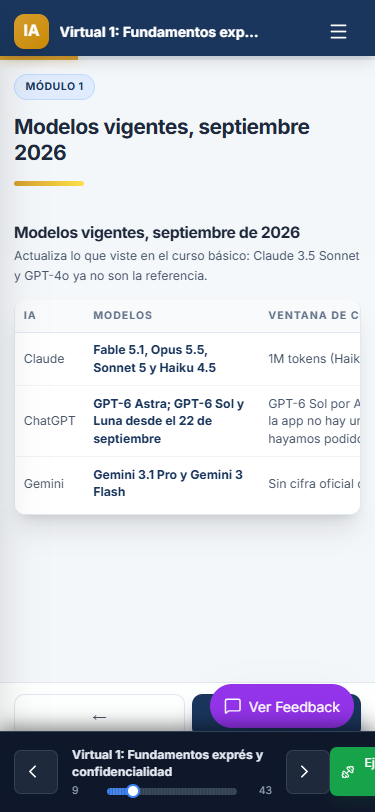
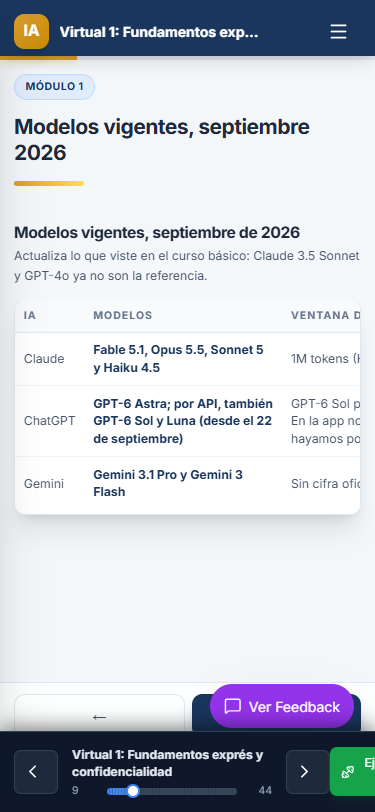
fix(avanzado): datos de la Virtual 1 ajustados a la investigación (fase 5)

diff --git a/client/src/data/avanzado/VIRTUAL_1.js b/client/src/data/avanzado/VIRTUAL_1.js
@@ -129,7 +129,7 @@ export const VIRTUAL_1 = {
                 headers: ["IA", "Modelos", "Ventana de contexto"],
                 rows: [
                     ["Claude", "Fable 5.1, Opus 5.5, Sonnet 5 y Haiku 4.5", "1M tokens (Haiku 4.5: 200K)"],
-                    ["ChatGPT", "GPT-6 Astra; GPT-6 Sol y Luna desde el 22 de septiembre", "GPT-6 Sol por API: 1 050 000 tokens. En la app no hay una cifra oficial que hayamos podido confirmar"],
+                    ["ChatGPT", "GPT-6 Astra; por API, también GPT-6 Sol y Luna (desde el 22 de septiembre)", "GPT-6 Sol por API: 1 050 000 tokens. En la app no hay una cifra oficial que hayamos podido confirmar"],
                     ["Gemini", "Gemini 3.1 Pro y Gemini 3 Flash", "Sin cifra oficial confirmada"]
                 ]
             }
@@ -184,8 +184,8 @@ export const VIRTUAL_1 = {
                 paragraph: "La base pública de Damien Charlotin registraba 2077 casos en el mundo al 24 de septiembre de 2026. En Ecuador no encontramos ningún caso confirmado todavía.",
                 headers: ["Dónde", "Qué pasó", "Consecuencia"],
                 rows: [
-                    ["Colombia · Corte Suprema, auto AC739-2026 (13 feb 2026)", "Un abogado citó diez sentencias inexistentes generadas con IA en un recurso de revisión", "Multa de 15 salarios mínimos"],
-                    ["Colombia · Corte Suprema, STC17832-2025 (5 nov 2025)", "Un tribunal de Sincelejo citó apartes de sentencias que no existían", "Se anuló el fallo"],
+                    ["Colombia · Corte Suprema, auto AC739-2026 (13 feb 2026)", "Un abogado incluyó diez citas jurisprudenciales inexistentes, generadas con IA, en un recurso de revisión", "Multa de 15 salarios mínimos"],
+                    ["Colombia · Corte Suprema, STC17832-2025 (5 nov 2025)", "El Tribunal Superior de Sincelejo citó apartes inexistentes de las sentencias STC13560-2023 y STC4734-2025", "Se anuló el fallo"],
                     ["Chile · Corte Suprema (22 abr 2026)", "Una abogada citó doctrina inexistente en un recurso de casación", "Un mes de suspensión y multa de 5 UTM"],
                     ["Argentina · Cámara Civil y Comercial de Rosario (21 ago 2025)", "Un escrito citó fallos inexistentes generados con ChatGPT", "Reprensión y oficio al Colegio de Abogados"]
                 ]
@@ -197,7 +197,7 @@ export const VIRTUAL_1 = {
             type: "narrative",
             contentData: {
                 Heading1: "Tutorial: cómo evitar que la IA alucine",
-                paragraph1: "Este tutorial adapta a Ecuador el método de Holly Cope, abogada inglesa, en su video «Reducing AI Hallucinations in Legal Work» (junio de 2026). El caso, las fuentes y los prompts son nuestros; el método y el recorrido son de ella.",
+                paragraph1: "Este tutorial adapta a Ecuador el método de Holly Cope, exabogada inglesa, en su video «Reducing AI Hallucinations in Legal Work» (junio de 2026). El caso, las fuentes y los prompts son nuestros; el método y el recorrido son de ella.",
                 bullets1: [
                     "Video completo: <a href='https://www.youtube.com/watch?v=Q-nA44oxXp0' target='_blank' rel='noopener noreferrer' class='underline'>youtube.com/watch?v=Q-nA44oxXp0</a>"
                 ],
@@ -212,12 +212,12 @@ export const VIRTUAL_1 = {
             type: "comparison",
             contentData: {
                 heading: "Los modelos de hoy también inventan",
-                paragraph: "Benchmark AA-Omniscience de Artificial Analysis, consultado el 24 de septiembre de 2026: preguntas de conocimiento que el modelo responde de memoria, sin documentos. Saber más no significa inventar menos. Y mide la memoria del modelo, no su trabajo con la norma que tú le entregas: por eso se la entregas.",
+                paragraph: "Benchmark AA-Omniscience de Artificial Analysis, consultado el 24 de septiembre de 2026: preguntas de conocimiento factual: mide lo que el modelo recuerda. Saber más no significa inventar menos. Y mide la memoria del modelo, no su trabajo con la norma que tú le entregas: por eso se la entregas.",
                 headers: ["", "Claude Fable 5.1 (max)", "Claude Opus 5.5 (max)", "GPT-6 Astra (high)"],
                 rows: [
                     ["Aciertos", "67 %", "66 %", "61 %"],
                     ["De lo que no sabe, cuánto inventa", "73 %", "59 %", "45 %"],
-                    ["De cada 100 preguntas", "67 bien, 24 inventadas, 9 «no sé»", "66 bien, 20 inventadas, 14 «no sé»", "61 bien, 17 inventadas, 22 «no sé»"]
+                    ["De cada 100 preguntas", "67 bien, 24 inventadas, 9 «no sé» o incompletas", "66 bien, 20 inventadas, 14 «no sé» o incompletas", "61 bien, 17 inventadas, 22 «no sé» o incompletas"]
                 ]
             }
         },
@@ -412,10 +412,10 @@ Si para algún punto el documento no alcanza, responde exactamente: "la informac
             type: "comparison",
             contentData: {
                 heading: "Niveles de protección: qué pasa con tus datos",
-                paragraph: "Según la documentación oficial de Anthropic y OpenAI, septiembre de 2026.",
+                paragraph: "Según la documentación oficial de Anthropic y la página de precios de OpenAI, septiembre de 2026.",
                 headers: ["Nivel", "¿Entrena con tus datos?", "Cuánto se guardan", "¿Realista para un despacho pequeño?"],
                 rows: [
-                    ["1. Plan personal: Claude Free, Pro o Max; ChatGPT Free, Plus o Pro", "Claude: tú decides con un interruptor. ChatGPT: «Mejorar el modelo para todos» viene activado en la mayoría de cuentas; se desactiva en Controles de datos", "Claude con entrenamiento desactivado: lo que borras se elimina en 30 días. Activado: hasta 5 años, desidentificado", "Sí, para el color verde. Claude Pro y ChatGPT Plus cuestan 20 dólares al mes"],
+                    ["1. Plan personal: Claude Free, Pro o Max; ChatGPT Free, Plus o Pro", "Claude: tú decides con un interruptor. ChatGPT: entrena con tus chats salvo que lo desactives (opt-out), según chatgpt.com/pricing", "Claude con entrenamiento desactivado: lo que borras se elimina en 30 días. Activado: hasta 5 años, desidentificado", "Sí, para el color verde. Claude Pro y ChatGPT Plus cuestan 20 dólares al mes"],
                     ["2. Plan de equipo o empresa: Claude Team o Enterprise", "No", "Lo que borras sale del sistema en 30 días; Enterprise permite configurar la retención", "Team, sí. Enterprise: precio a consultar con ventas"],
                     ["3. API de Claude con Zero Data Retention", "No", "Nada después de responder, salvo lo que marquen los filtros de seguridad (hasta 2 años). Fable y Mythos exigen 30 días", "Solo con desarrollo propio; se pide al equipo de ventas de Anthropic"],
                     ["4. Claude en Amazon Bedrock o Google Vertex AI", "Según tu contrato con AWS o Google, que son los encargados", "Según la política de esa nube", "Poco: Bedrock no tiene región garantizada en Sudamérica y es complejo"]

diff --git a/client/public/materiales/tutorial-evitar-alucinaciones.md b/client/public/materiales/tutorial-evitar-alucinaciones.md
@@ -2,7 +2,7 @@
 
 IA Avanzada para Abogados · Virtual 1.
 
-Este tutorial adapta a Ecuador el método de **Holly Cope**, abogada inglesa, en su video «Reducing AI Hallucinations in Legal Work» (24 de junio de 2026): https://www.youtube.com/watch?v=Q-nA44oxXp0. El caso, los prompts y las fuentes son ecuatorianos y están escritos por nosotros; el método y el recorrido de prompt malo, mejor y aún mejor son de ella. Te recomendamos ver el video completo.
+Este tutorial adapta a Ecuador el método de **Holly Cope**, exabogada inglesa, en su video «Reducing AI Hallucinations in Legal Work» (24 de junio de 2026): https://www.youtube.com/watch?v=Q-nA44oxXp0. El caso, los prompts y las fuentes son ecuatorianos y están escritos por nosotros; el método y el recorrido de prompt malo, mejor y aún mejor son de ella. Te recomendamos ver el video completo.
 
 ## 1. Por qué la IA adivina
 
@@ -10,7 +10,7 @@ Un estudio de OpenAI, «Why Language Models Hallucinate» (Kalai, Nachum, Vempal
 
 La idea central de Holly Cope: no le pidas a la IA que acierte; pídele que sea transparente sobre lo que no sabe.
 
-Los modelos actuales también lo hacen. En el benchmark AA-Omniscience de Artificial Analysis (https://artificialanalysis.ai/evaluations/omniscience, consultado el 24 de septiembre de 2026), el modelo responde de memoria, sin documentos, y cada respuesta es correcta, inventada o «no sé»:
+Los modelos actuales también lo hacen. En el benchmark AA-Omniscience de Artificial Analysis (https://artificialanalysis.ai/evaluations/omniscience, consultado el 24 de septiembre de 2026), se mide lo que el modelo recuerda (conocimiento factual), y cada respuesta es correcta, inventada, o «no sé» o incompleta:
 
 | | Aciertos | De lo que no sabe, cuánto inventa |
 |---|---|---|

diff --git a/docs/revision/2026-09-24-virtual-1-progreso.md b/docs/revision/2026-09-24-virtual-1-progreso.md
@@ -7,3 +7,4 @@
 - Fase 3 (ejecutar), commit `d8c7657`: selector `VITE_COURSE` (`client/src/data/cursos.js`, `App.jsx:3`), `client/src/data/avanzado/` con 43 slides y 5 materiales en `client/public/materiales/`. Ejecutor `sonnet`, sin desvíos del plan. Build pasa con y sin la variable; eslint 52. Sigue: fase 4, recorrido y capturas.
 - Fase 4 (verificar): build y eslint (52) sin cambios. Recorrido de los 43 slides con Playwright headless sobre el build `VITE_COURSE=avanzado`, en 1280×800 y 375×812, con Supabase bloqueado para no escribir `session_state` en modo admin: sin errores de página ni desborde horizontal. En móvil las tablas `comparison` se desplazan hacia el lado (la última columna no se ve sin deslizar). Básico sin la variable: Módulo 1, portada y `perfil-joseluis.png` cargan. Capturas en `docs/revision/capturas/`. Sigue: slide nuevo con AA-Omniscience (pedido de José Luis a mitad de sesión) y fase 5, revisión.
 - Agregado a pedido de José Luis (archivo `D:\curso-ia-avanzado\alucinaciones_benchmarks_IA.md`): slide `v1-3-5b` con AA-Omniscience y un párrafo en `tutorial-evitar-alucinaciones.md`. Cifras verificadas en el sitio (Parte E de la investigación). Su caso Opus 5.5 (high) no existe en el sitio; se usaron Fable 5.1 (max), Opus 5.5 (max) y GPT-6 Astra (high). Build pasa, eslint 52. Capturas `15b-*`. Sigue: fase 5.
+- Fase 5 (revisar): `superpowers:code-reviewer` (`opus`) sobre `8096b25..HEAD`. Sin bugs; 6 datos corregidos para que calcen con la investigación (Colombia ×2, «exabogada», AA-Omniscience, ChatGPT en la app, entrenamiento de ChatGPT). No aplicado: pizarra y modo libre compartidos con el básico (aceptado en el encargo). Capturas de los 5 slides cambiados rehechas. Sigue: entrega.

diff --git a/client/public/materiales/semaforo-confidencialidad.md b/client/public/materiales/semaforo-confidencialidad.md
@@ -21,7 +21,7 @@ IA Avanzada para Abogados · Virtual 1. Propuesta del curso, no norma. Ante la d
 ## Los cuatro niveles de protección
 | Nivel | ¿Entrena con tus datos? | Cuánto se guardan |
 |---|---|---|
-| 1. Plan personal (Claude Free, Pro o Max; ChatGPT Free, Plus o Pro) | Claude: tú decides. ChatGPT: «Mejorar el modelo para todos» viene activado en la mayoría de cuentas; desactívalo en Controles de datos | Claude, entrenamiento desactivado: lo borrado se elimina en 30 días; activado: hasta 5 años |
+| 1. Plan personal (Claude Free, Pro o Max; ChatGPT Free, Plus o Pro) | Claude: tú decides. ChatGPT: entrena con tus chats salvo que lo desactives (opt-out), según chatgpt.com/pricing | Claude, entrenamiento desactivado: lo borrado se elimina en 30 días; activado: hasta 5 años |
 | 2. Equipo o empresa (Claude Team o Enterprise) | No | Lo borrado sale en 30 días; Enterprise configura la retención |
 | 3. API de Claude con Zero Data Retention | No | Nada tras responder, salvo lo marcado por seguridad (hasta 2 años); Fable y Mythos exigen 30 días |
 | 4. Claude en Amazon Bedrock o Google Vertex AI | Según tu contrato con AWS o Google, que son los encargados | Según la nube; Bedrock no tiene región garantizada en Sudamérica |

diff --git a/docs/plans/2026-09-24-virtual-1-investigacion.md b/docs/plans/2026-09-24-virtual-1-investigacion.md
@@ -895,3 +895,8 @@ general (p. ej. Claude Opus 5.5 max: promedio de sus 6 dominios = 46.42, igual a
     "Hallucination Rate" en sí. La cita exacta de arriba es la que aparece junto al gráfico de
     Hallucination Rate en la propia página de evaluación (`/evaluations/omniscience`), que es la
     definición oficial de esa métrica específica.
+
+### Nota del controlador (24 sep 2026)
+
+- La página https://artificialanalysis.ai/evaluations/omniscience describe el benchmark como «A benchmark measuring factual recall and hallucination across various economically relevant domains»: mide lo que el modelo recuerda. Lo que no acierta incluye respuestas incorrectas, parciales o no intentadas, por eso en los slides «no sé» va como «no sé o incompletas».
+- ChatGPT y el entrenamiento: la única fuente leída es https://chatgpt.com/pricing («Content is used to train our models: Opt-out available»). El nombre del interruptor y su ubicación quedan NO VERIFICADO (help.openai.com dio 403) y salieron de los slides.
